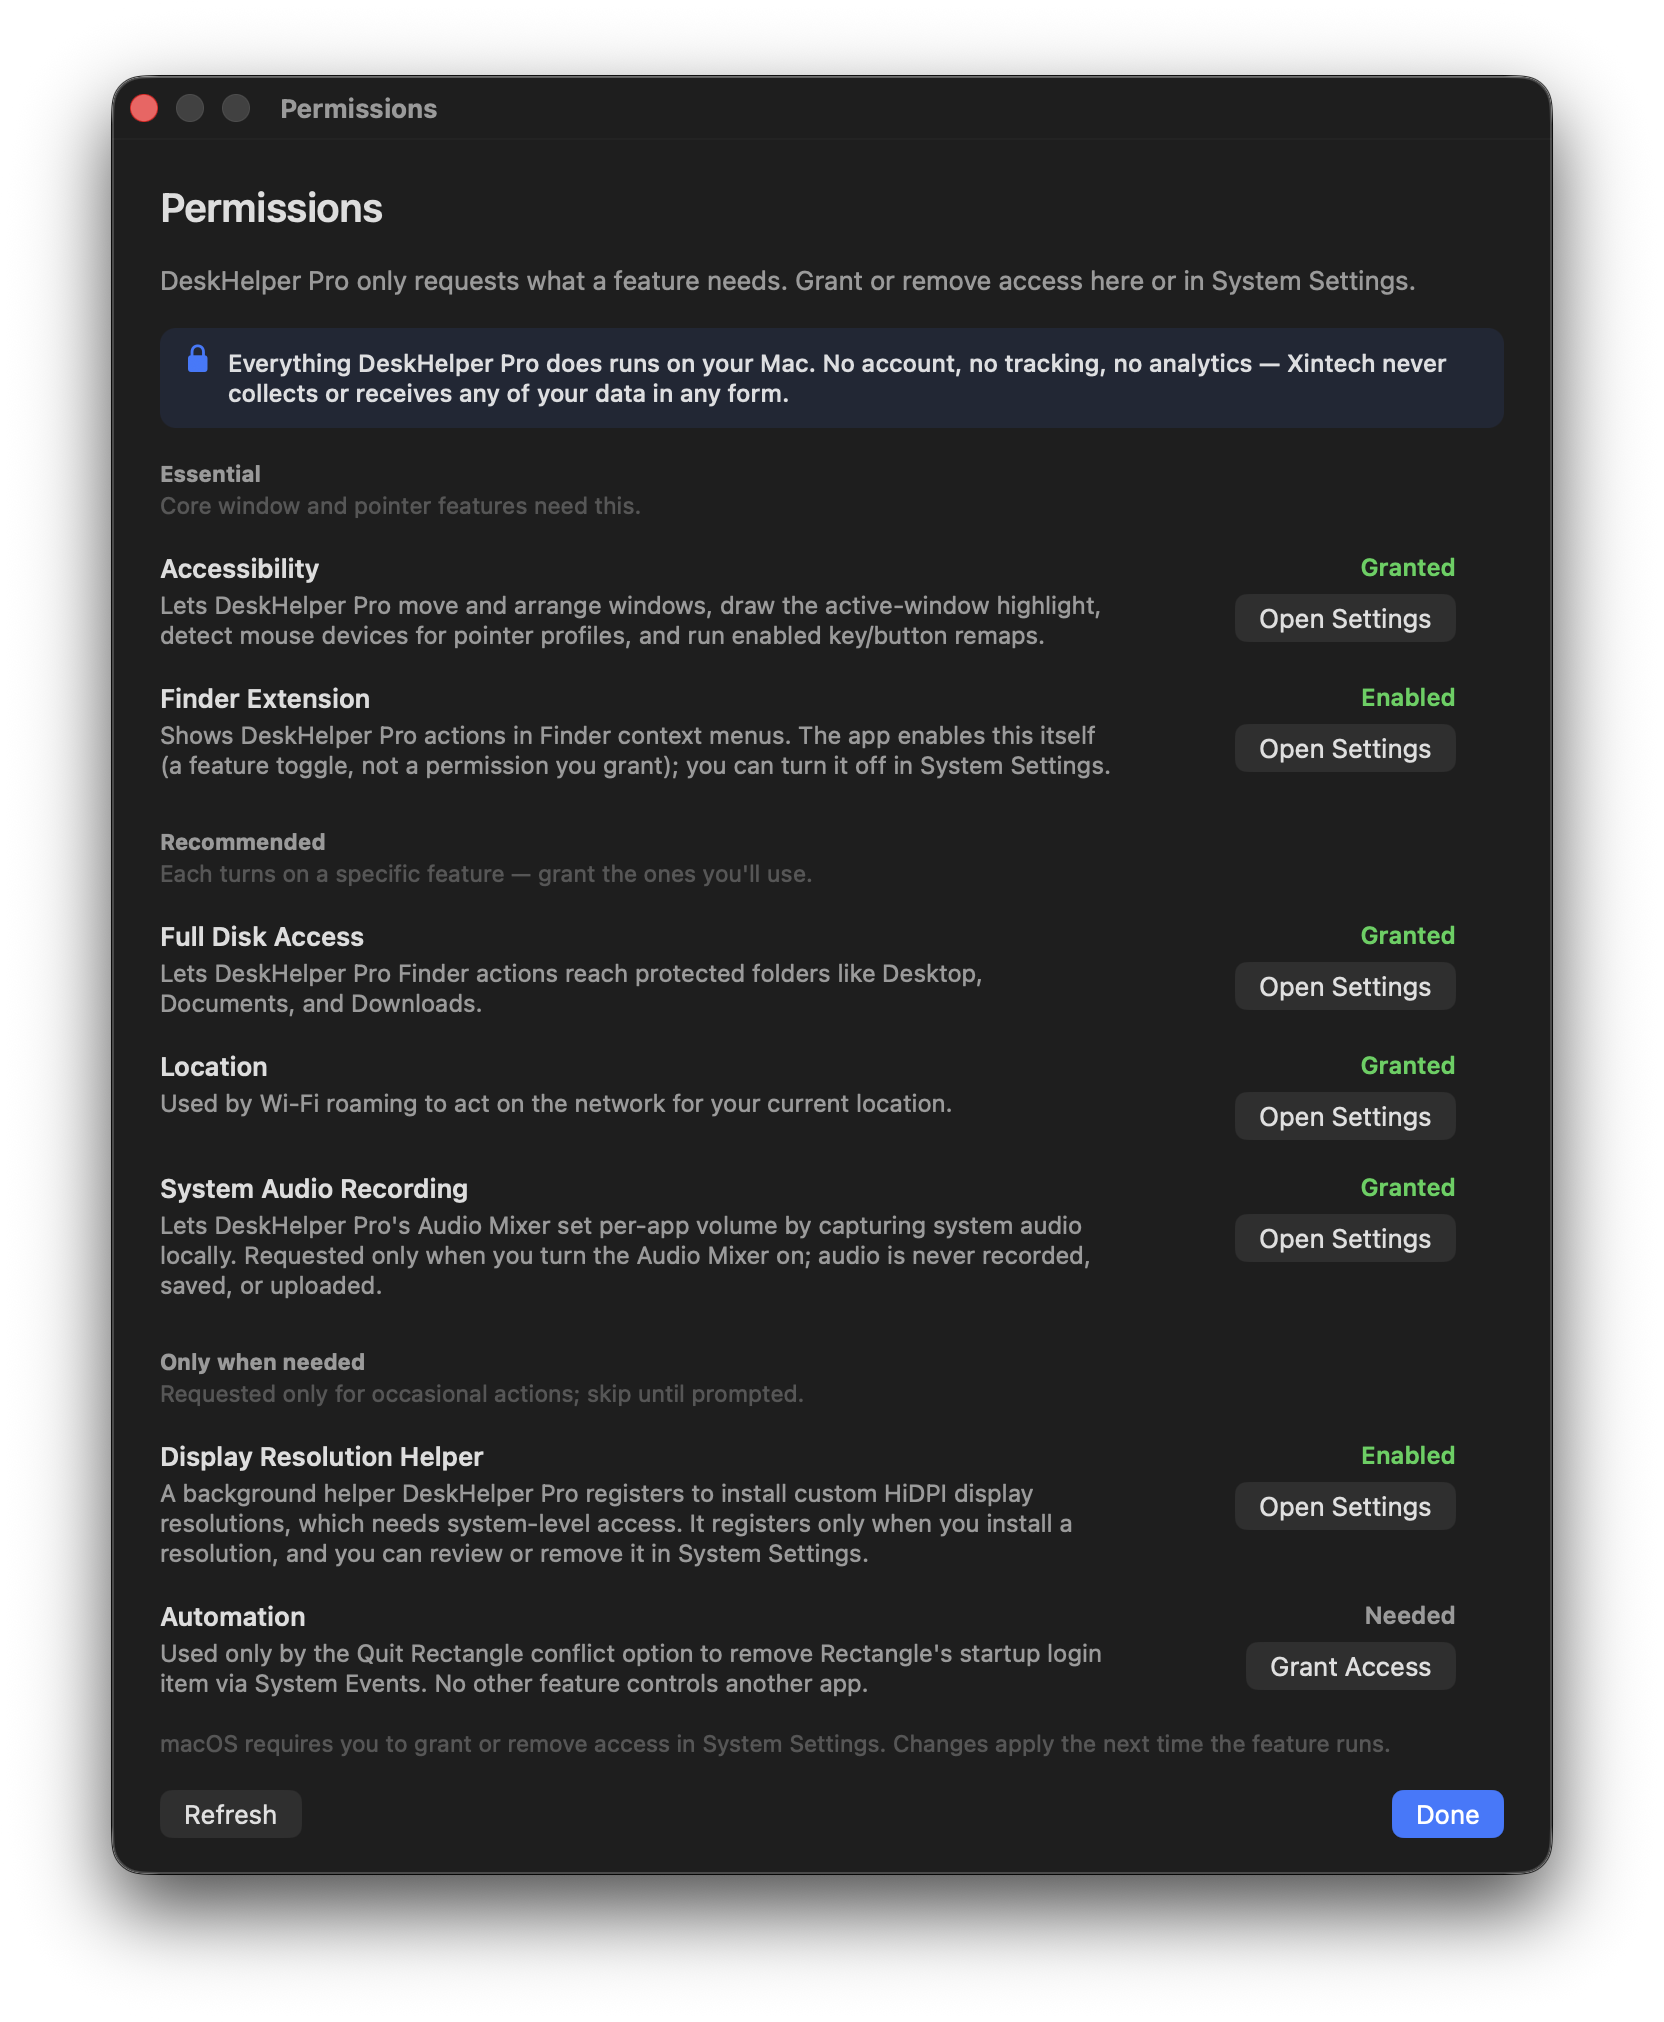
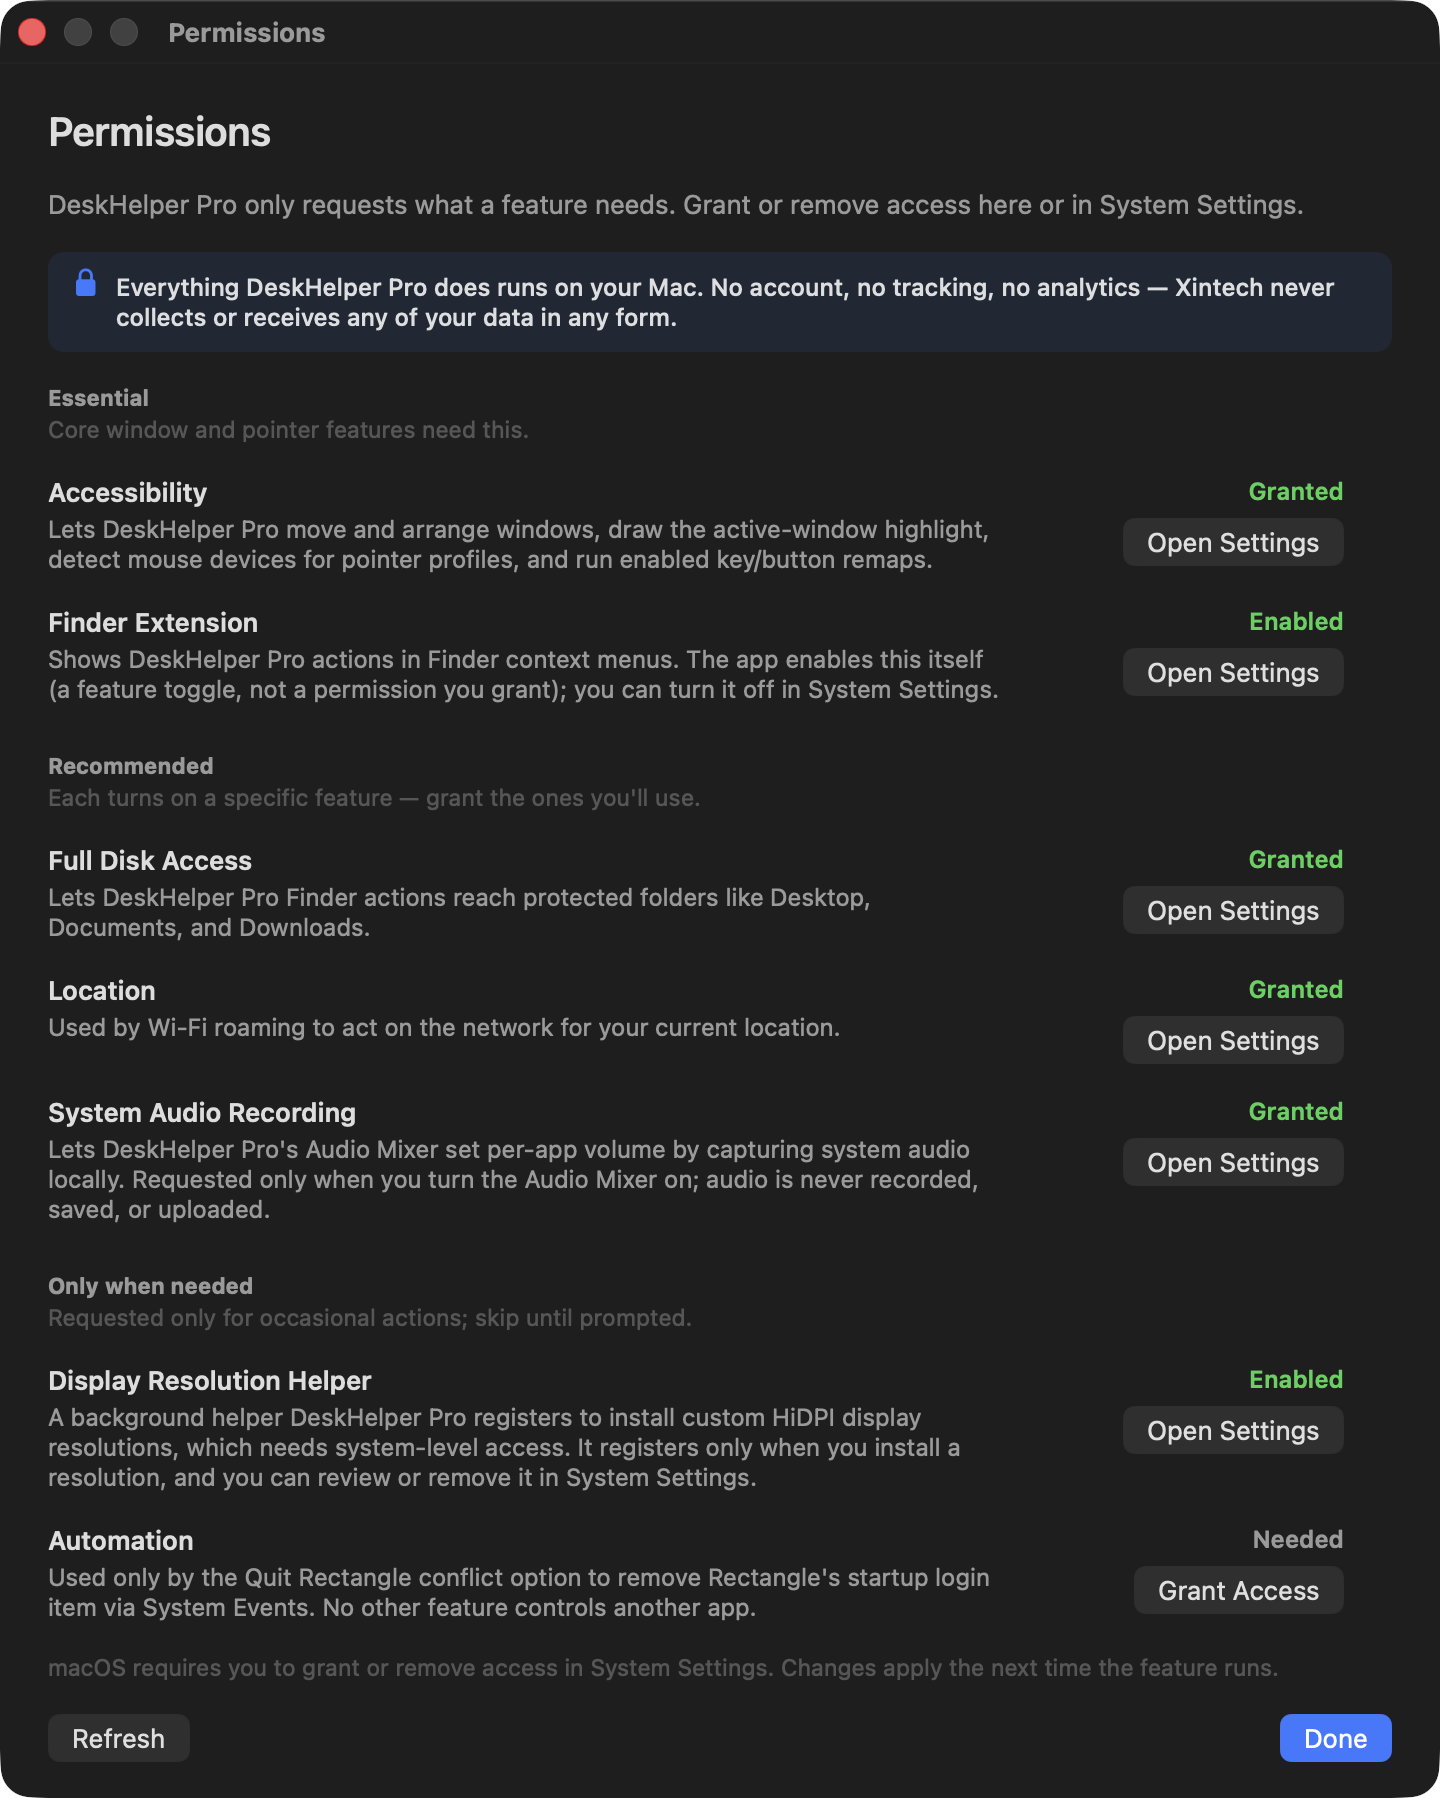
DeskHelper Pro preview: tight Permissions capture (no shadow margins)

diff --git a/DeskHelperPro/preview.html b/DeskHelperPro/preview.html
@@ -536,7 +536,7 @@
           </div>
           <div class="pvg-shots stack">
             <figure>
-              <img src="assets/permissions-overview.png" width="1664" height="2022" loading="lazy" alt="Permissions overview listing Accessibility, Finder Extension, Full Disk Access, Location, System Audio Recording, Display Resolution Helper, and Automation with live grant status.">
+              <img src="assets/permissions-overview.png?v=2" width="1440" height="1798" loading="lazy" alt="Permissions overview listing Accessibility, Finder Extension, Full Disk Access, Location, System Audio Recording, Display Resolution Helper, and Automation with live grant status.">
               <figcaption>Permissions overview with live status</figcaption>
             </figure>
           </div>
